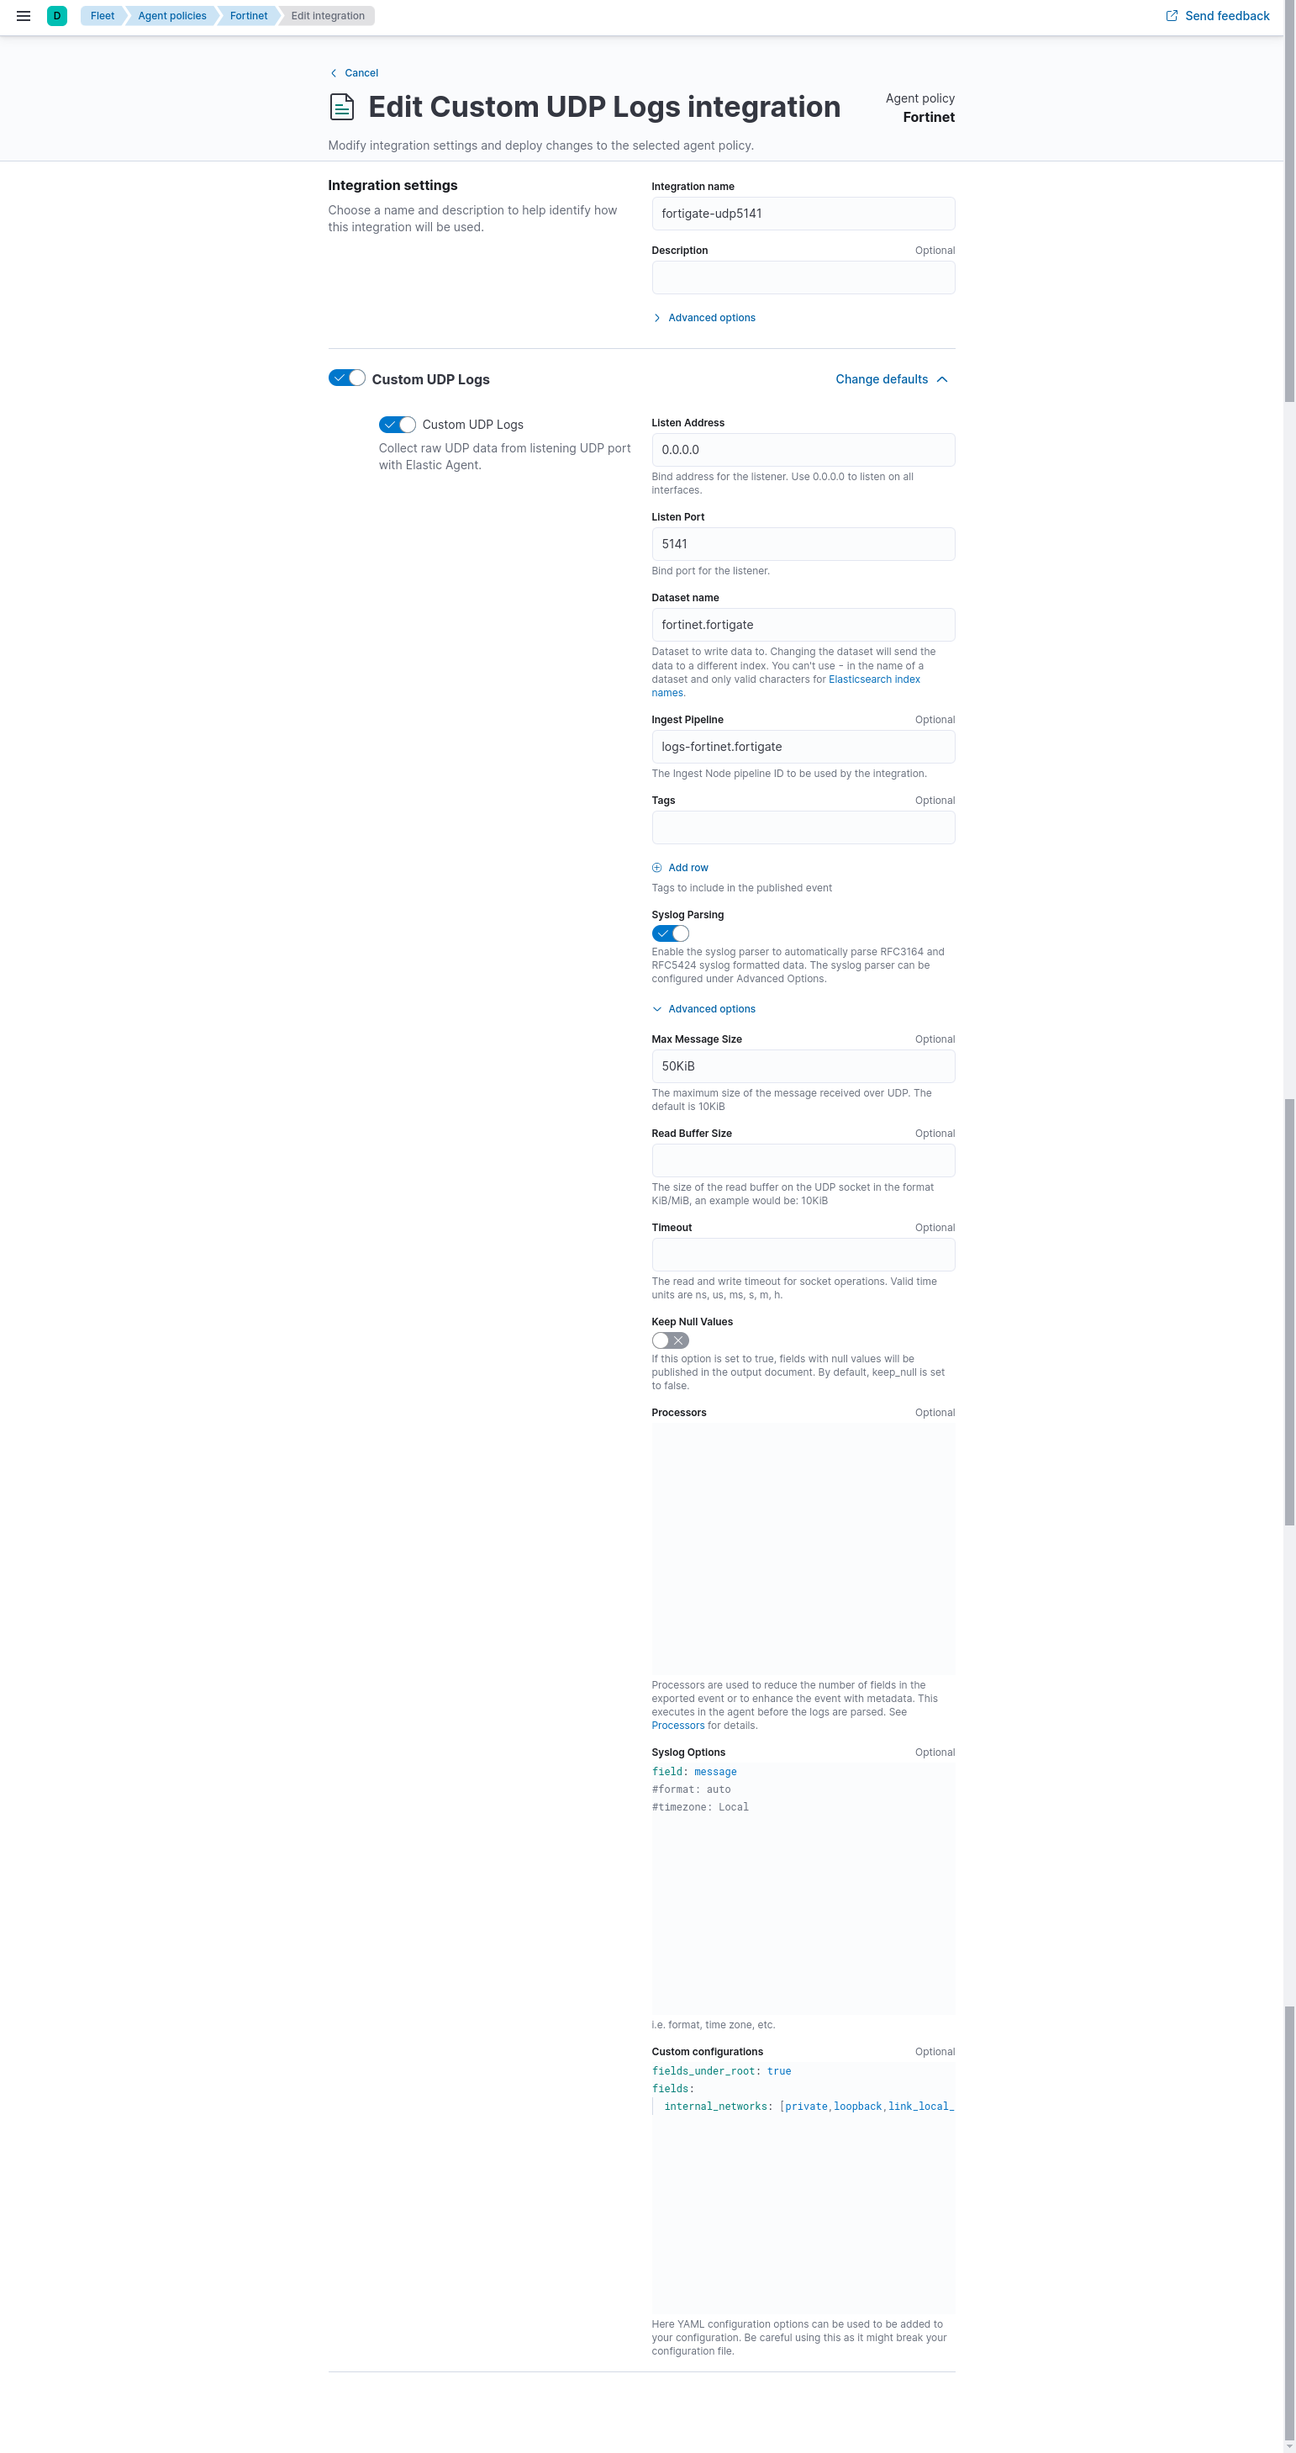
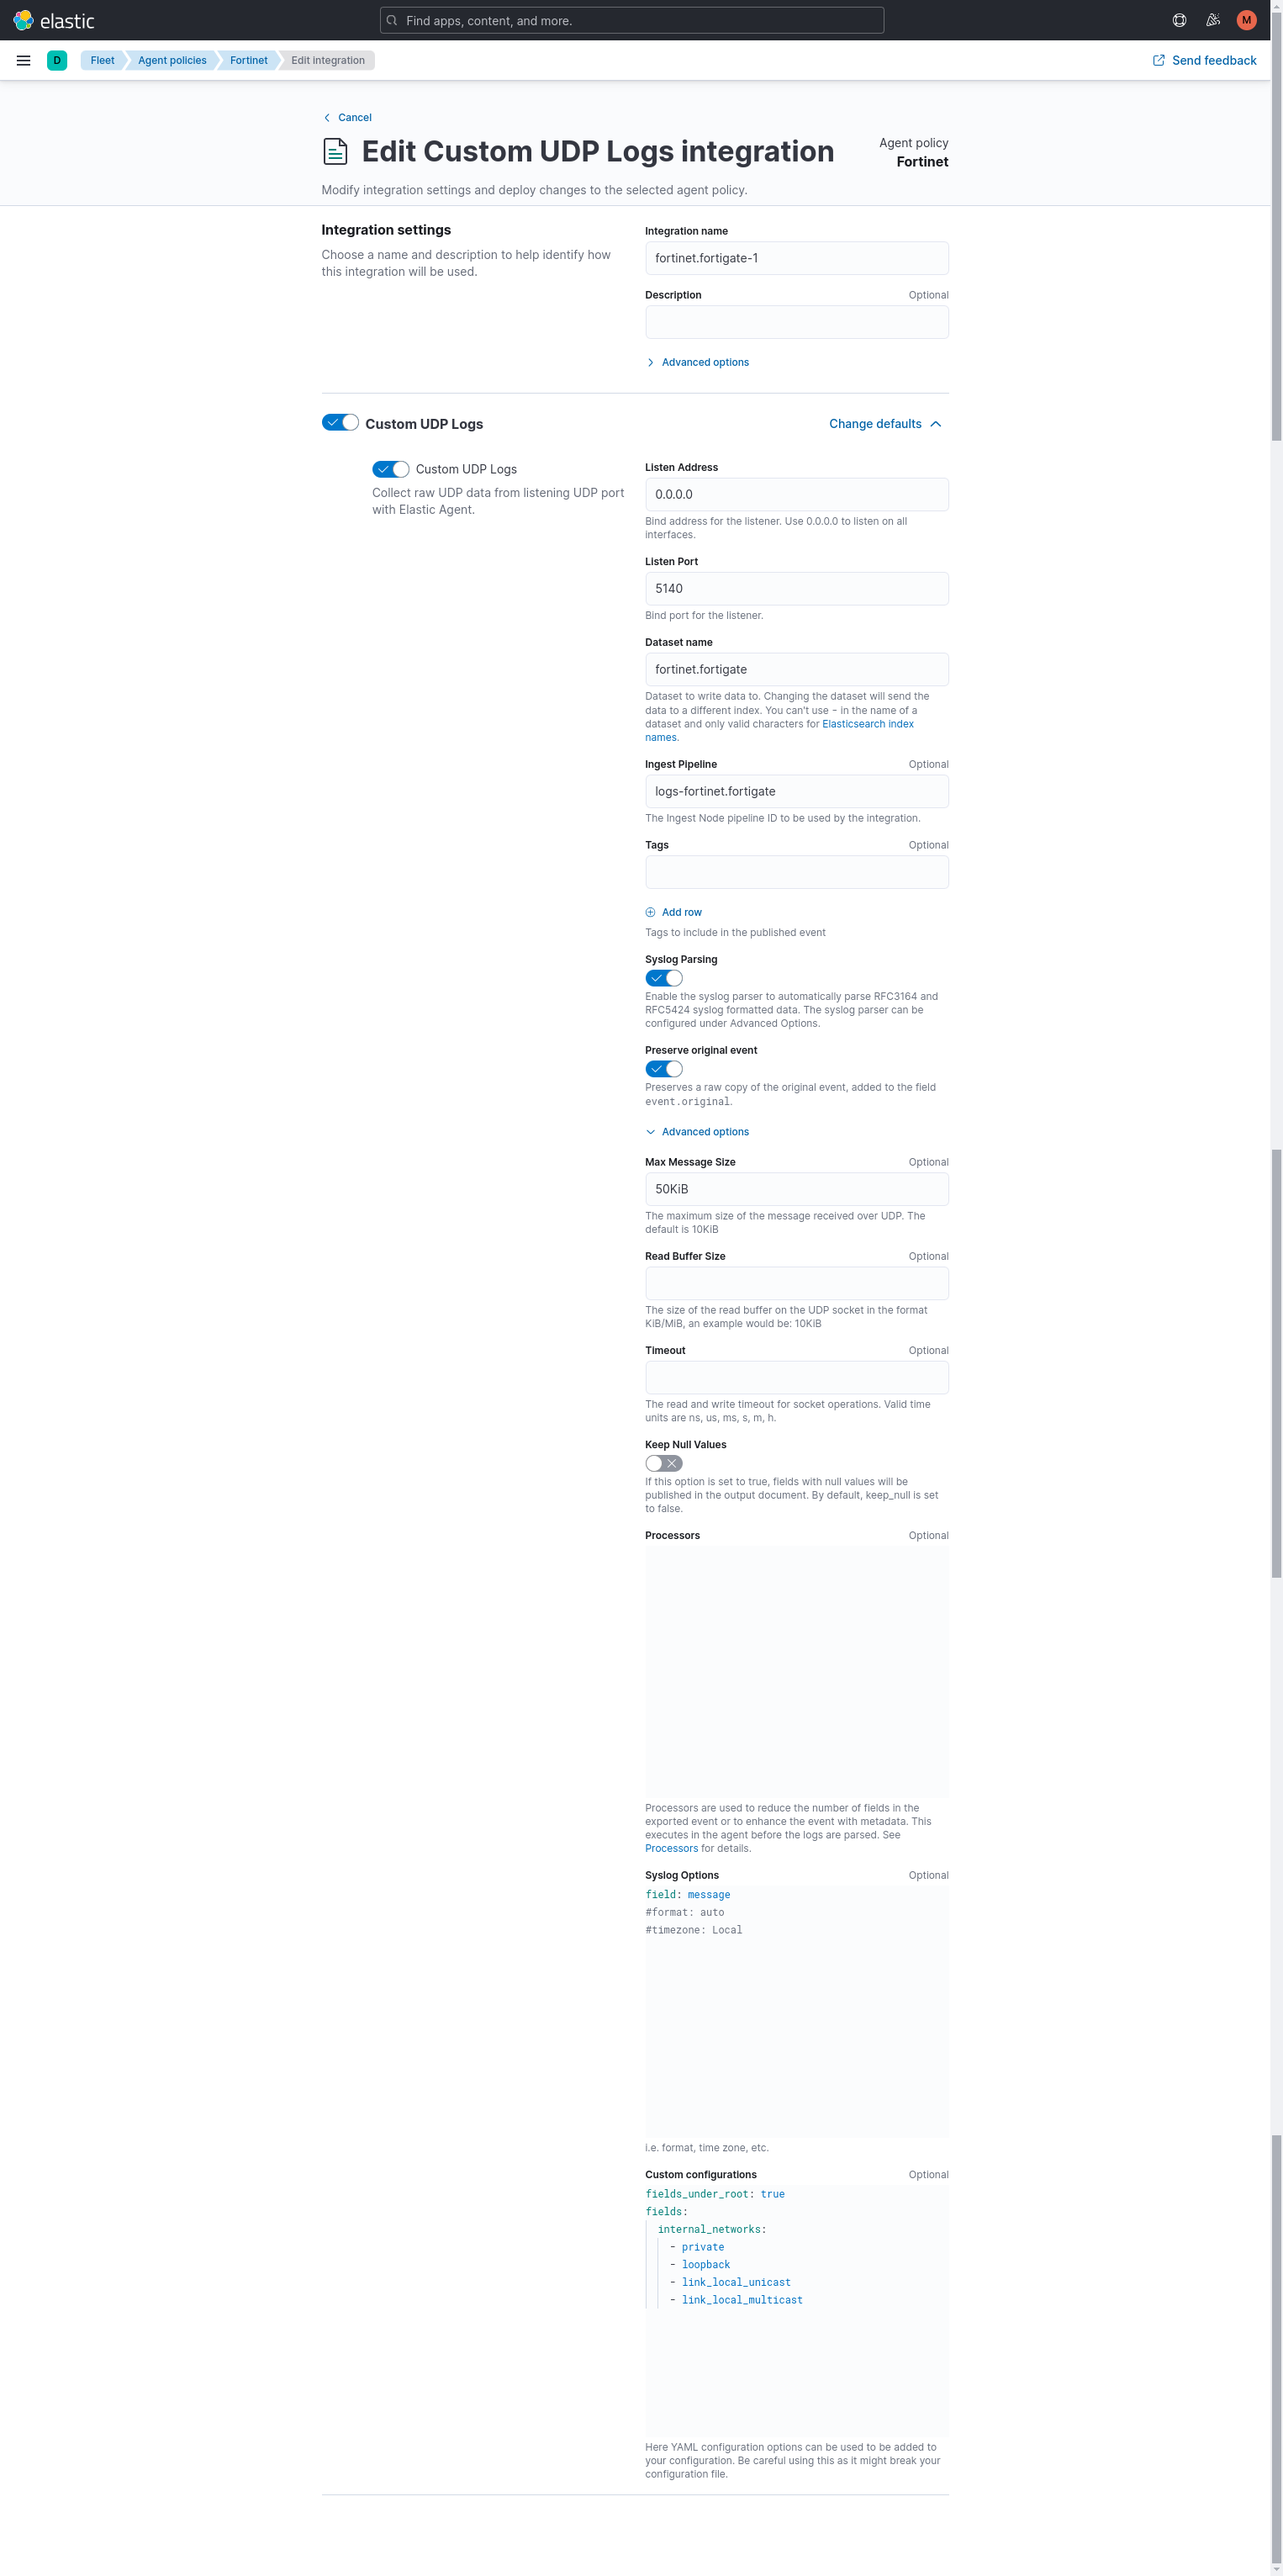
readme

diff --git a/README.md b/README.md
@@ -17,11 +17,11 @@ You are already saving a lot of money by using Fortinet+Elastic, so consider mak
 
 ## Overview
 
-FortiDragon is a full anayltics platform for threat hunting with Fortinet datasources. It leverages the Elastic Stack for efficient indexing, searching, visualizing and analyzing log data. This repository provides scripts and configurations to set up this integration.
+FortiDragon aims to be a full anayltics platform for threat hunting with Fortinet datasources. It leverages the Elastic Stack for efficient indexing, searching, visualizing and analyzing log data. This repository provides scripts and configurations to set up this integration.
 
 ## How it all began
 
-We actually use FortiDragon on our day to day operations for threat hunting, so we undestand all the painpoints of a security analyst. That is why we created it on the first place. After 10+ years experience with Fortinet we could not find a solution that could extract all the juice out of Fortinet logs. We tried several SIEMs along the way and found out that firewall logs are just a checkmark on their datasheets. Full parsing and performance for such volume of logs was not carefully considered by any SIEM vendor. Finally we decided we needed to build it ourselves and chose Elastic because of its flexibility, performance and cost. FortiDragon is by far the best out there.
+We actually use FortiDragon on our day to day operations for threat hunting, so we undestand all the painpoints of a security analyst. After 10+ years experience with Fortinet we could not find a solution that could extract all the juice out of Fortinet logs. We tried several SIEMs along the way and found out that firewall logs are just a checkmark on their datasheets. Full parsing and performance tunning for such volume of logs was not carefully considered by any SIEM vendor. Finally we decided we needed to build it ourselves and chose Elastic because of its flexibility, performance and cost. FortiDragon is by far the best option out there.
 
 ## Key Benefits
 1. **Parsing**
@@ -39,8 +39,8 @@ We actually use FortiDragon on our day to day operations for threat hunting, so 
 - We expose all filters at dashboard level, so you can always know what data you are quering. If you ever tried to debug a FortiAnalyzer query, you will know how valuable this is.
 
 5. **Multiplatform Support**
-- We already provide dashboards for Palo Alto firewalls and Cortex XDR.
-- FortiDragon will support Grafana and [Quickwit](https://quickwit.io/) in future releases.
+- We already provide dashboards for [Palo Alto firewalls](https://github.com/enotspe/fortinet-2-elasticsearch/blob/master/kibana/panw%20panos%20ELK%208143.ndjson) and [Cortex XDR](https://github.com/enotspe/fortinet-2-elasticsearch/blob/master/kibana/panw%20cortex%20ELK%208132.ndjson).
+- FortiDragon will support [Grafana](https://grafana.com/) and [Quickwit](https://quickwit.io/) in future releases.
 
 ## Installation
 
@@ -54,7 +54,7 @@ Let's get this party on!!! 🤩
     config log syslogd setting
         set status enable
         set server "elastic_agent_IP"
-        set port 5141
+        set port 5140
         set format rfc5424
     end
   ```
@@ -138,9 +138,21 @@ We got a script!!!!
 6. Make sure dashboard controls are enabled: Go to Management --> Kibana Advanced Settings --> Presentation Labs --> Enable dashboard controls
 
 
-### Deploy Elastic Agent
+### Syslog Collector
 
-1. [Install Elastic Agent](https://www.elastic.co/guide/en/fleet/current/elastic-agent-installation.html)
+All the procecesing is done via ingest pipelines in Elasticsearch, so we can use any lightweight collector for receiving syslog logs from firewalls and sending them to our Elastic cluster.
+
+Some options are:
+
+- Elastic Agent
+- Vector
+- Rsyslog
+
+Just use one of the options provided.
+
+#### Elastic Agent
+
+1. [Install Elastic Agent](https://www.elastic.co/guide/en/fleet/current/elastic-agent-installation.html) either [Fleet-managed](https://www.elastic.co/guide/en/fleet/current/install-fleet-managed-elastic-agent.html) or [standalone](https://www.elastic.co/guide/en/fleet/current/install-standalone-elastic-agent.html)
 
 2. Create an Agent Policy
 ![create_policy](https://github.com/enotspe/fortinet-2-elasticsearch/blob/master/images/create_policy.png)
@@ -154,35 +166,43 @@ We got a script!!!!
 3. Configure Custom UDP Logs integration
 ![integration_parameters](https://github.com/enotspe/fortinet-2-elasticsearch/blob/master/images/integration_parameters.png)
 
-4. Save Integration
+4. Make sure to add your own private networks under custom configurations. It is recommended to add your own public facing IP address scope as well.
 
-5. [Performance tunning settings](https://www.elastic.co/guide/en/fleet/current/es-output-settings.html#es-output-settings-performance-tuning-settings)
-- Use `Optimized for throughput` or `Custom` with larger settings.
-- Run `watch -d "column -t cat /proc/net/snmp | grep -w Udp"` on your Elastic Agent host to check if you are dropping any logs.
+5. Save Integration
 
-**Hopefully you should be dancing with your logs by now.** 🕺💃
+6. If you deployed Fleet-managed agent, just [apply your new policy to your agent](https://www.elastic.co/guide/en/fleet/current/agent-policy.html#apply-a-policy).
 
-If you have deployed [standalone Elastic Agent](https://www.elastic.co/guide/en/fleet/current/install-standalone-elastic-agent.html), you should add UDP under your `inputs` in your `elastic-agent.yml`:
+7. If you deployed standalone agent, [take your generated policy](https://www.elastic.co/guide/en/fleet/current/create-standalone-agent-policy.html) and modify your [elastic-agent.yml](https://www.elastic.co/guide/en/fleet/current/installation-layout.html) accordinly.
+
+You should end up with something like:
 
 ```
-  - id: fortigate-udp5141
-    name: fortigate-udp5141
+  - id: udp-udp-af7f0dce-57c0-498f-bc09-96ba51fd76a4
+    name: fortinet.fortigate-1
+    revision: 1
     type: udp
     use_output: default
     meta:
       package:
         name: udp
-        version: 1.19.0
+        version: 1.19.1
     data_stream:
       namespace: default
+    package_policy_id: af7f0dce-57c0-498f-bc09-96ba51fd76a4
     streams:
-      - id: udp5141-fortinet.fortigate
+      - id: udp-udp.generic-af7f0dce-57c0-498f-bc09-96ba51fd76a4
         data_stream:
           dataset: fortinet.fortigate
-        host: '0.0.0.0:5141'
+        host: '0.0.0.0:5140'
         pipeline: logs-fortinet.fortigate
         max_message_size: 50KiB
+        tags:
+          - preserve_original_event
         processors:
+          - copy_fields:
+              fields:
+                - from: message
+                  to: event.original
           - syslog:
               field: message
         fields_under_root: true
@@ -193,6 +213,15 @@ If you have deployed [standalone Elastic Agent](https://www.elastic.co/guide/en/
             - link_local_unicast
             - link_local_multicast
 ```
+
+7. Performance tunning settings
+- Use `Optimized for throughput` (should work for most setups) or `Custom` with larger settings (for very large EPS). You should modify it accordinly for [Fleet-managed agent](https://www.elastic.co/guide/en/fleet/current/es-output-settings.html#es-output-settings-performance-tuning-settings) or [standalone agent](https://www.elastic.co/guide/en/fleet/current/elasticsearch-output.html#output-elasticsearch-performance-tuning-settings)
+- Run `watch -d "column -t cat /proc/net/snmp | grep -w Udp"` on your Elastic Agent host to check if you are dropping any logs.
+
+**Hopefully you should be dancing with your logs by now.** 🕺💃
+
+#### Vector
+
 
 ### ~~On Logstash~~ **DEPRECATED**
 
